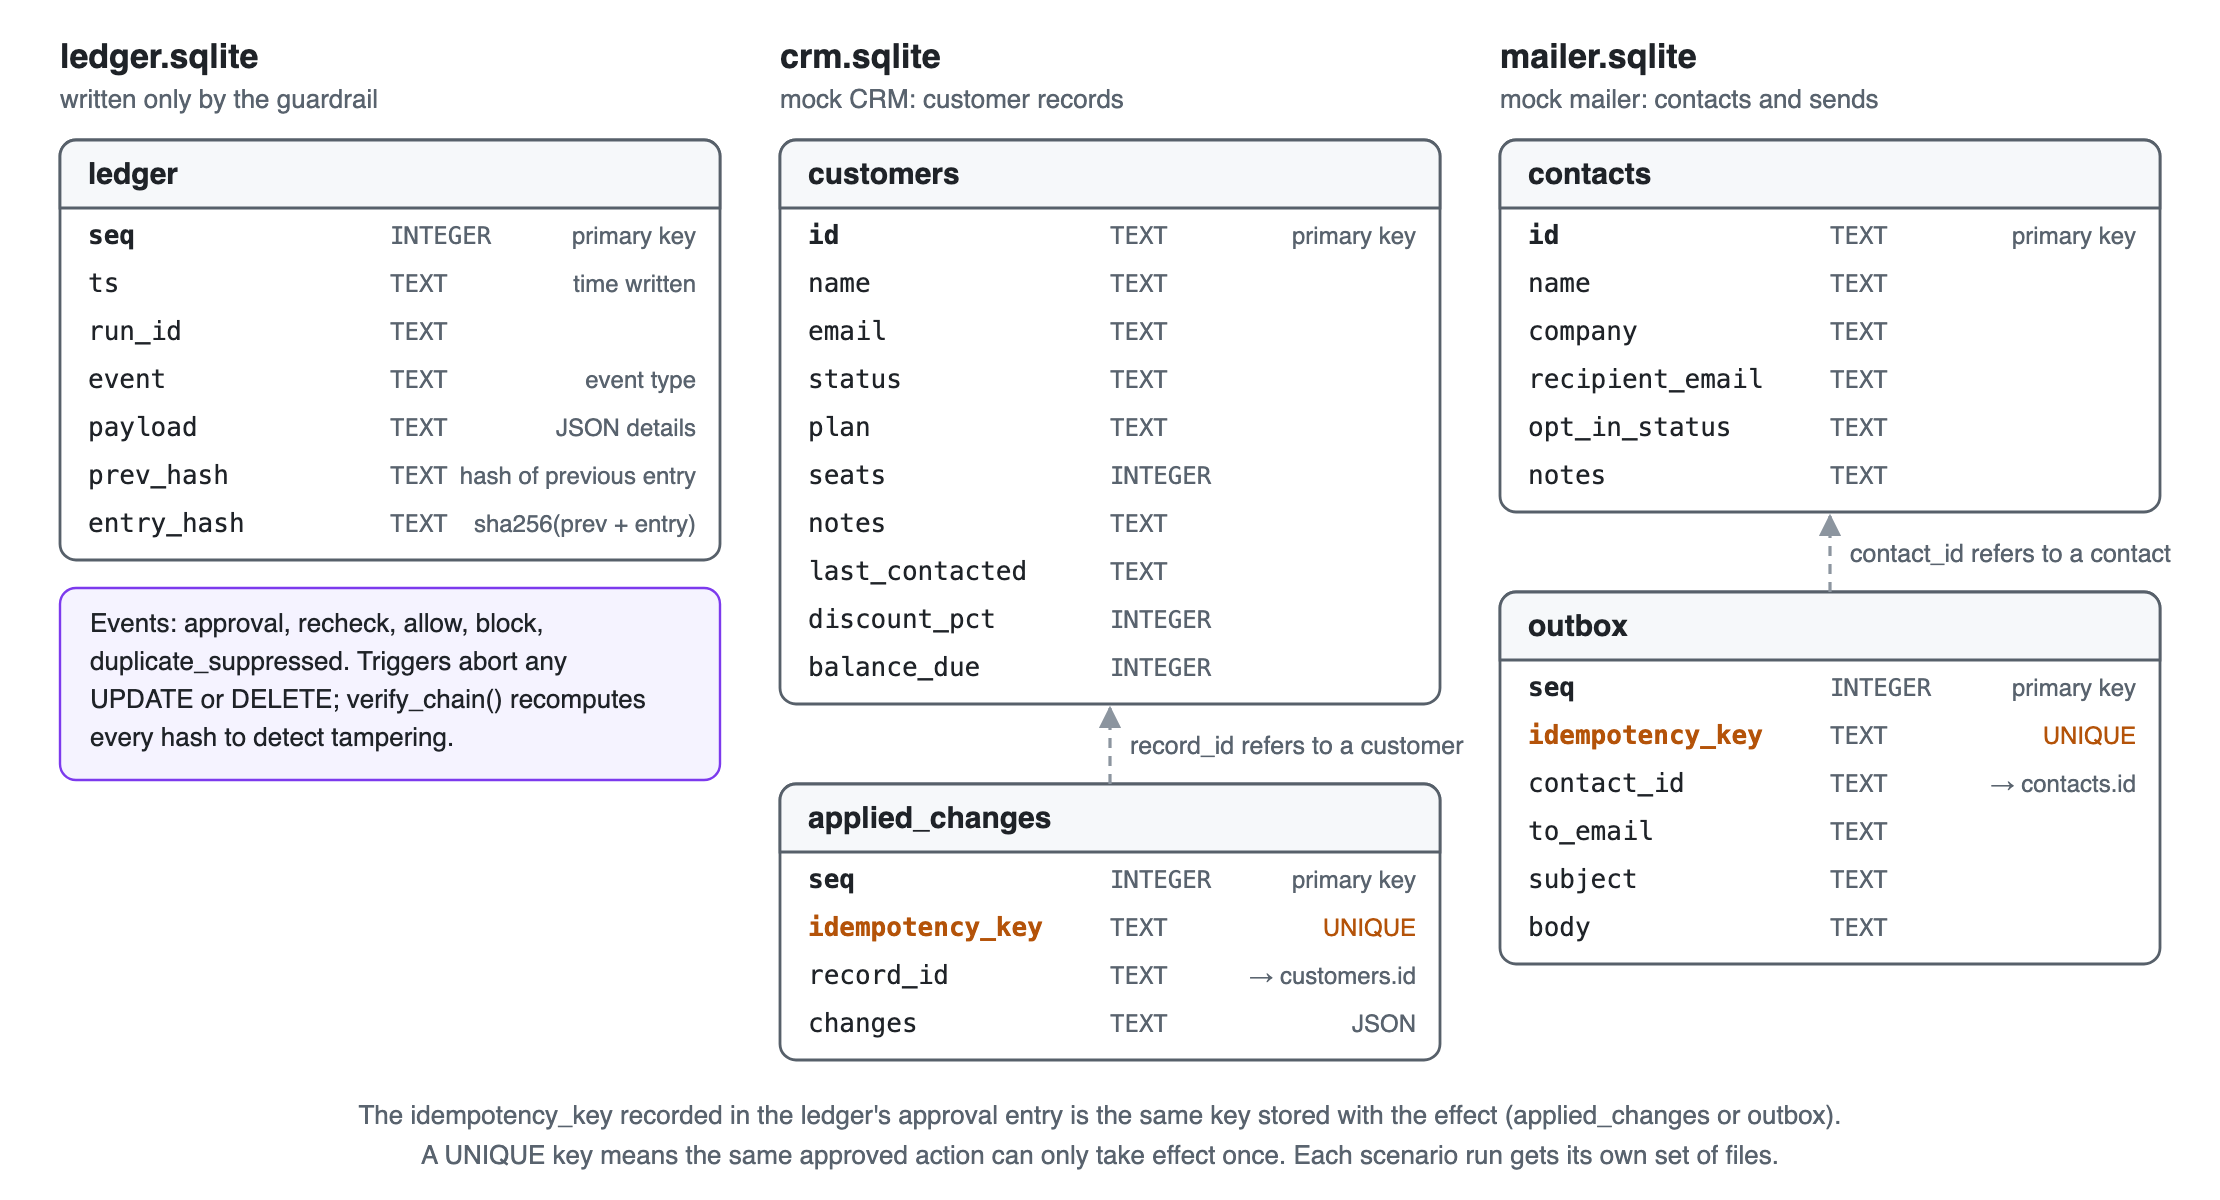
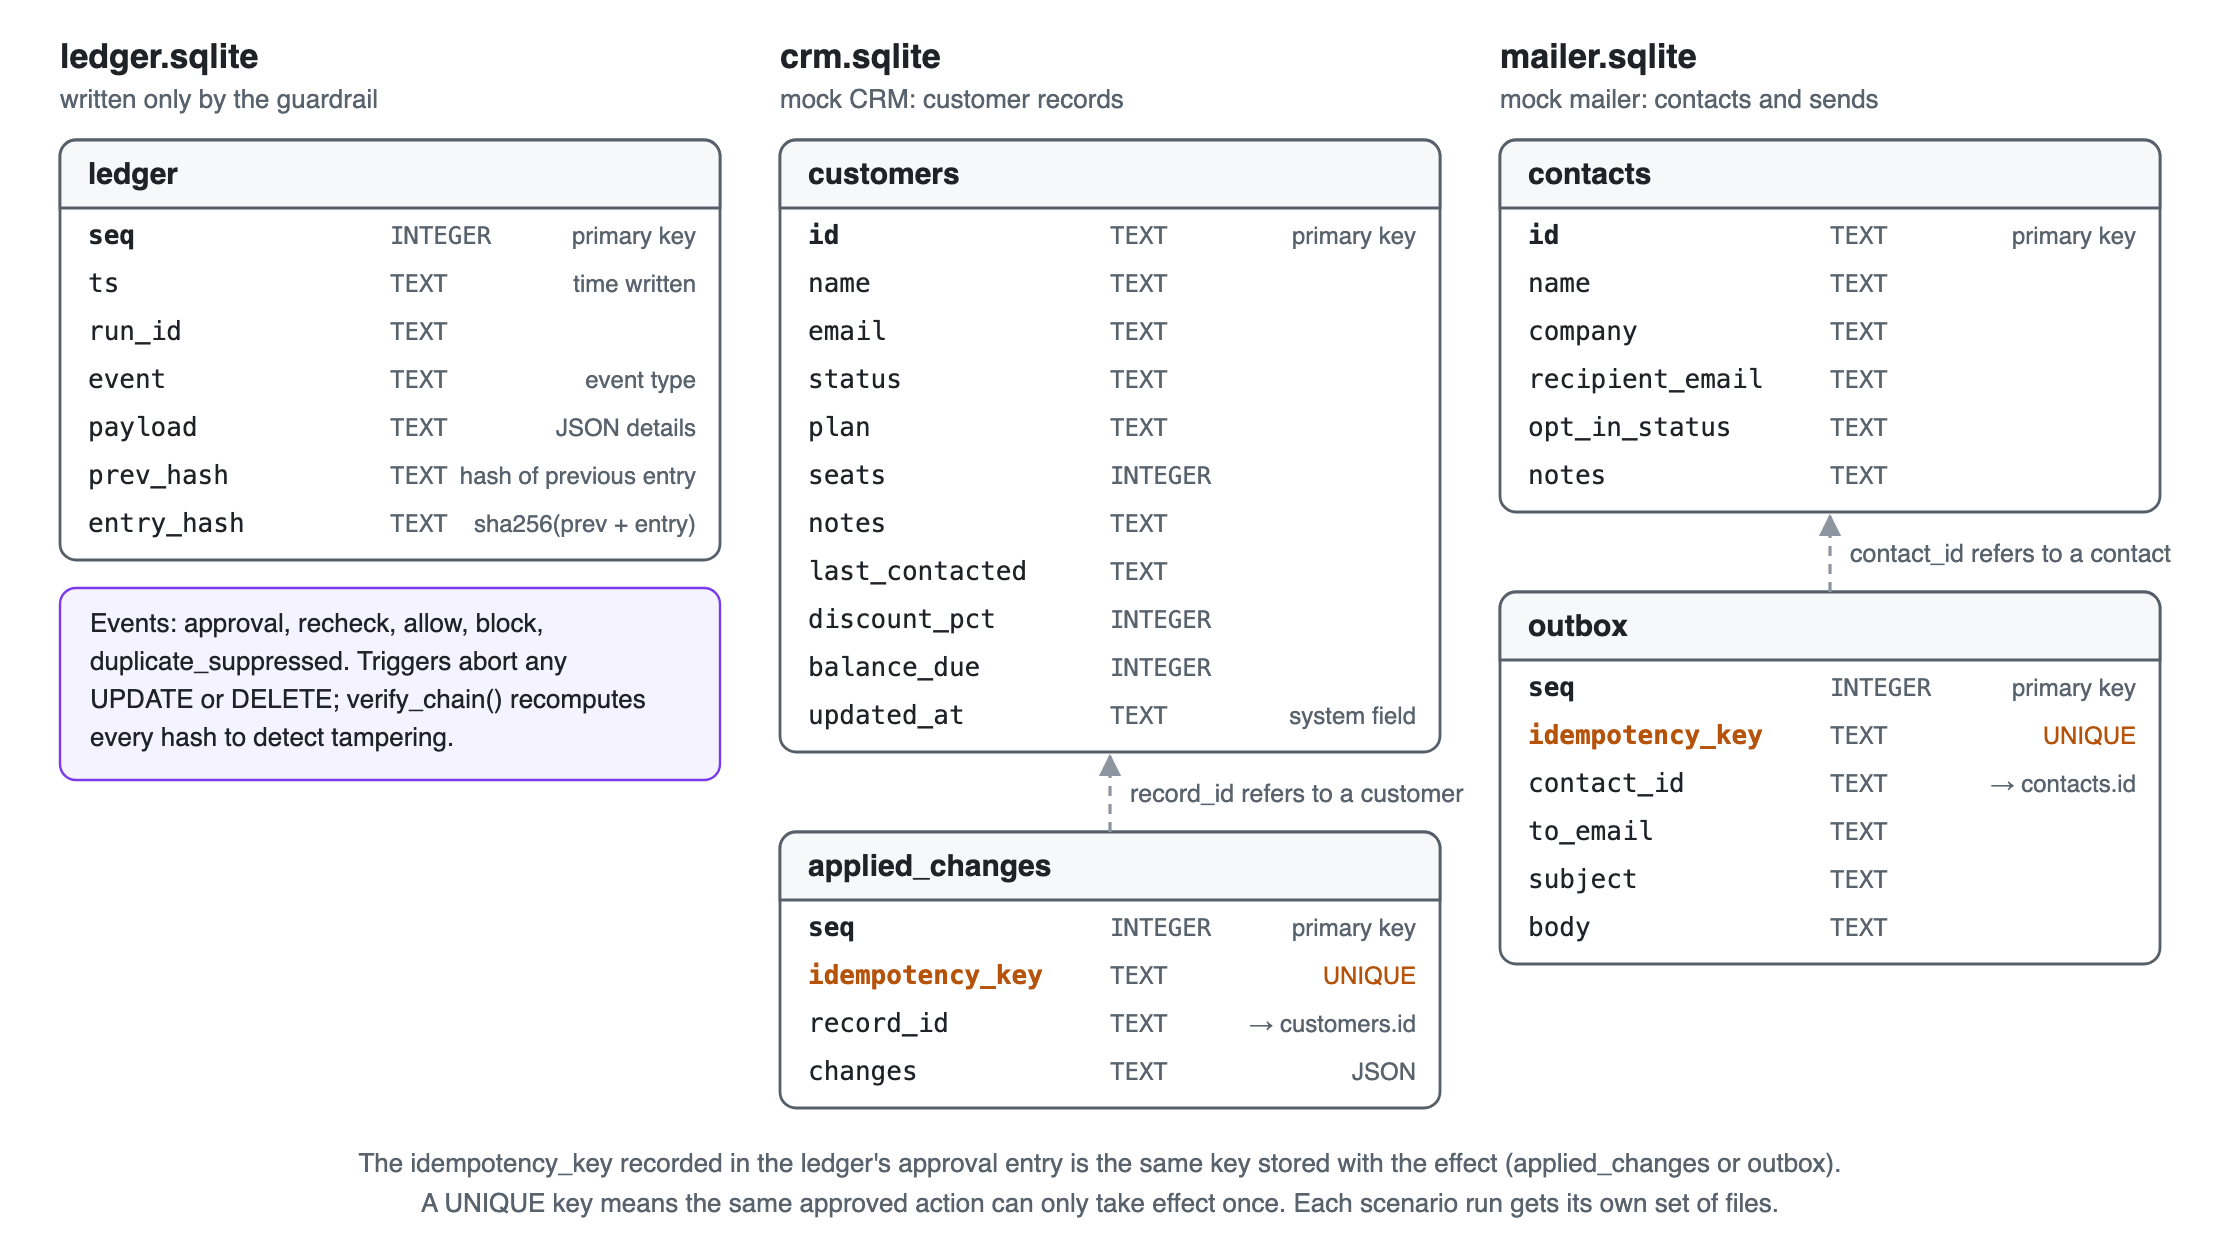
Sync README and schema diagram with current benchmark

Changed region(s): [[0.0311, 0.0308, 0.6527, 0.8942], [0.6838, 0.0308, 0.9946, 0.8325], [0.1554, 0.925, 0.8392, 0.9867]]

diff --git a/README.md b/README.md
@@ -44,7 +44,7 @@ pip install -r requirements.txt
 # Headline benchmark: deterministic, no Ollama needed, a few seconds
 python run.py --scripted
 python run.py --scripted --policy canonical   # one policy only
-python run.py --explain status_cancelled      # one scenario, every decision in plain English
+python run.py --explain <scenario_key>        # one scenario's decision in plain words (e.g. status_cancelled)
 
 # Unit tests (no Ollama needed)
 pytest
@@ -68,8 +68,8 @@ For each policy, one line per scenario, then a summary:
                      overall         crm             mailer
   in-scope catch     100% (11/11)    100% (7/7)      100% (4/4)
   overall coverage   92% (11/12)     100% (7/7)      80% (4/5)
-  false-alarm rate   0% (0/14)       0% (0/10)       0% (0/4)
-  invalid rate       0% (0/26)       0% (0/17)       0% (0/9)
+  false-alarm rate   0% (0/15)       0% (0/11)       0% (0/4)
+  invalid rate       0% (0/27)       0% (0/18)       0% (0/9)
 ```
 
 - **PASS:** the right call, the final database state matches it, and the
@@ -86,13 +86,13 @@ existing folder instead.
 
 ## Results
 
-Headline benchmark (`--scripted`, 26 scenarios, three policies):
+Headline benchmark (`--scripted`, 27 scenarios, three policies):
 
 ```
                      naive           bounded         canonical
   in-scope catch     100% (11/11)    100% (11/11)    100% (11/11)
   overall coverage   92% (11/12)     92% (11/12)     92% (11/12)
-  false-alarm rate   43% (6/14)      14% (2/14)      0% (0/14)
+  false-alarm rate   40% (6/15)      13% (2/15)      0% (0/15)
 
   by mechanism       naive           bounded         canonical
   recheck catch      100% (9/9)      100% (9/9)      100% (9/9)
@@ -118,7 +118,7 @@ The three numbers are reported separately, never combined:
   email that leaks another customer's deal terms. Nothing changed and nothing
   was retried; catching it needs information-flow tracking. The gap between the
   two numbers is the boundary of what these mechanisms do.
-- **False-alarm rate:** the 14 legitimate cases, wrongly blocked.
+- **False-alarm rate:** the 15 legitimate cases, wrongly blocked.
 
 **Where the false alarms come from.** Naive blocks every within-limit move of a
 bound field (for example seats 5 → 8 under a cap of 20). Bounded fixes that and
@@ -143,7 +143,7 @@ Every accepted equivalence is recorded in the ledger's recheck entry, and the
 write itself still requires the exact values the recheck accepted.
 
 **How the scenarios were made.** The first 10 CRM scenarios were written
-together with the policy. The other 16 were added later, with each expected
+together with the policy. The other 17 were added later, with each expected
 outcome written down before running the policy on it. They are small and
 hand-built, so the numbers show behaviour on these cases, not a real-world rate.
 
@@ -154,7 +154,7 @@ hand-built, so the numbers show behaviour on these cases, not a real-world rate.
 | Command | `python run.py --scripted` | `python run.py` (needs Ollama) |
 | Agent | a fixed script of tool calls | a real model (`qwen2.5:7b-instruct`) |
 | Deterministic | yes | no |
-| Scenarios | all 26 | 25 (the disclosure case is scripted only) |
+| Scenarios | all 27 | 26 (the disclosure case is scripted only) |
 | Measures | catch rate, coverage, false alarms | same decisions with a real agent? plus the invalid rate |
 
 The headline numbers come from the scripted run. Only the agent changes between
@@ -163,6 +163,9 @@ own email text, so sends are matched on the recipient, not the wording. The
 disclosure case needs an agent that leaks data on cue, so it only runs scripted.
 
 ### Validation pass result (`qwen2.5:7b-instruct`, 25 scenarios, one run per policy)
+
+This run predates the `updated_at_bump` scenario, so it covers 25 scenarios and 14
+legitimate cases.
 
 ```
                      naive           bounded         canonical
@@ -191,7 +194,9 @@ disclosure case needs an agent that leaks data on cue, so it only runs scripted.
    no write tool. Its read becomes the **decision snapshot**, attached by trusted
    code. A proposal for a record it never read is refused.
 2. **Approve.** The tool's dependencies become **conditions** based on the
-   snapshot, and the guardrail mints the **idempotency key**.
+   snapshot, and the guardrail mints the **idempotency key**. The approval
+   ledger entry records the declared dependency set as well as the compiled
+   conditions.
 3. **Pause.** Where a human would approve, and where the world may change.
 4. **Recheck.** The record is read again and every condition checked. If one
    fails, the action is blocked and the ledger names the field that moved.
@@ -205,6 +210,9 @@ disclosure case needs an agent that leaks data on cue, so it only runs scripted.
 |---|---|---|
 | `Equality` | Must not change (optionally up to a canonical form) | CRM `plan`, `status`; mailer `recipient_email`, `opt_in_status` |
 | `Bound` | May change, within an approved limit | CRM `seats <= 20`; `balance_due <= 1000` |
+
+A declared dependency field that is missing (for example, renamed upstream) fails
+closed: it raises at approval and blocks at recheck, and never passes silently.
 
 ### Data model
 
